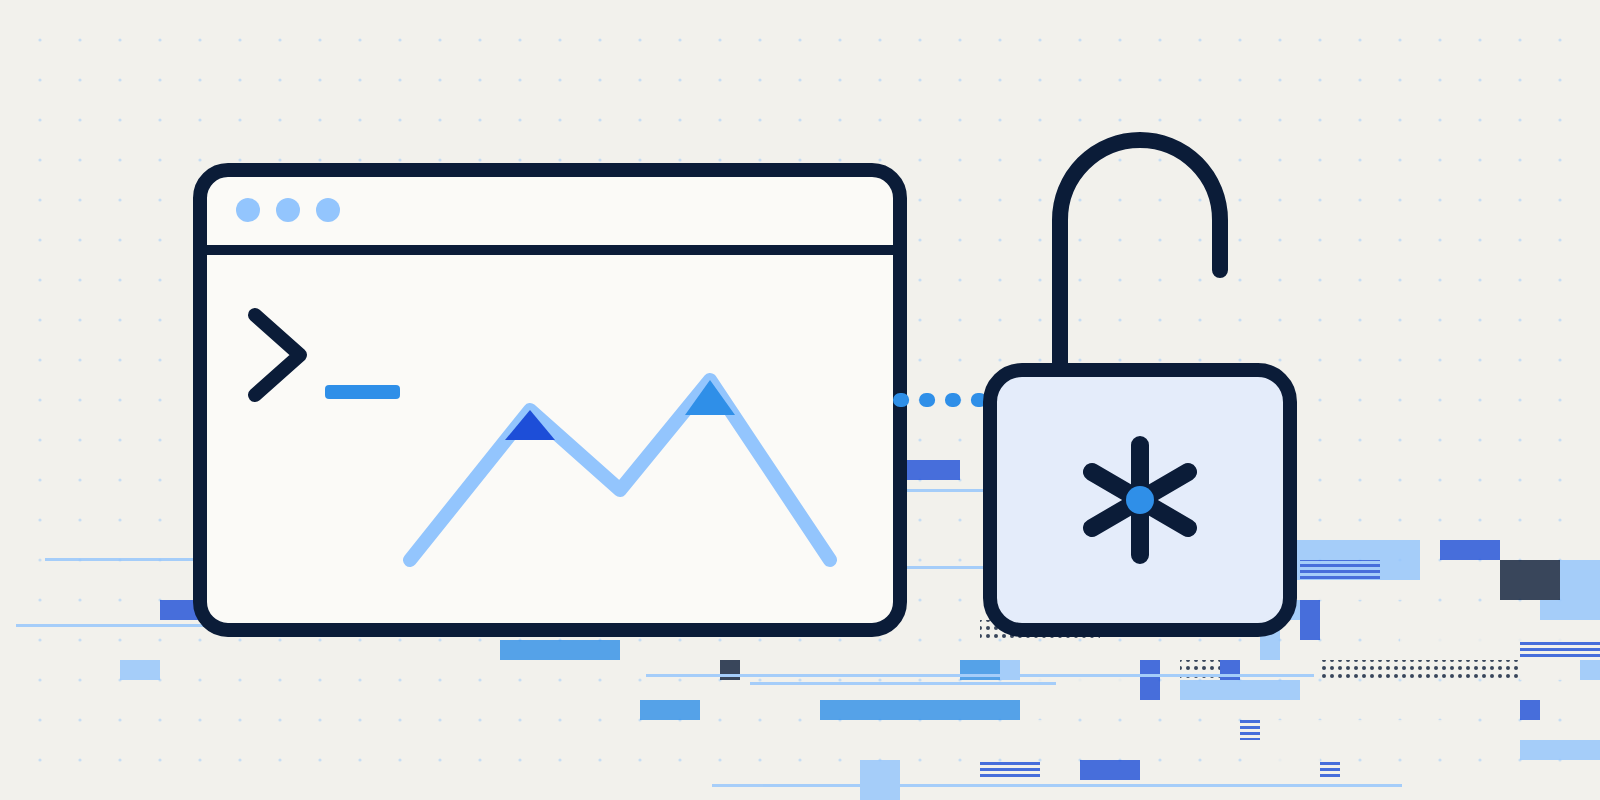
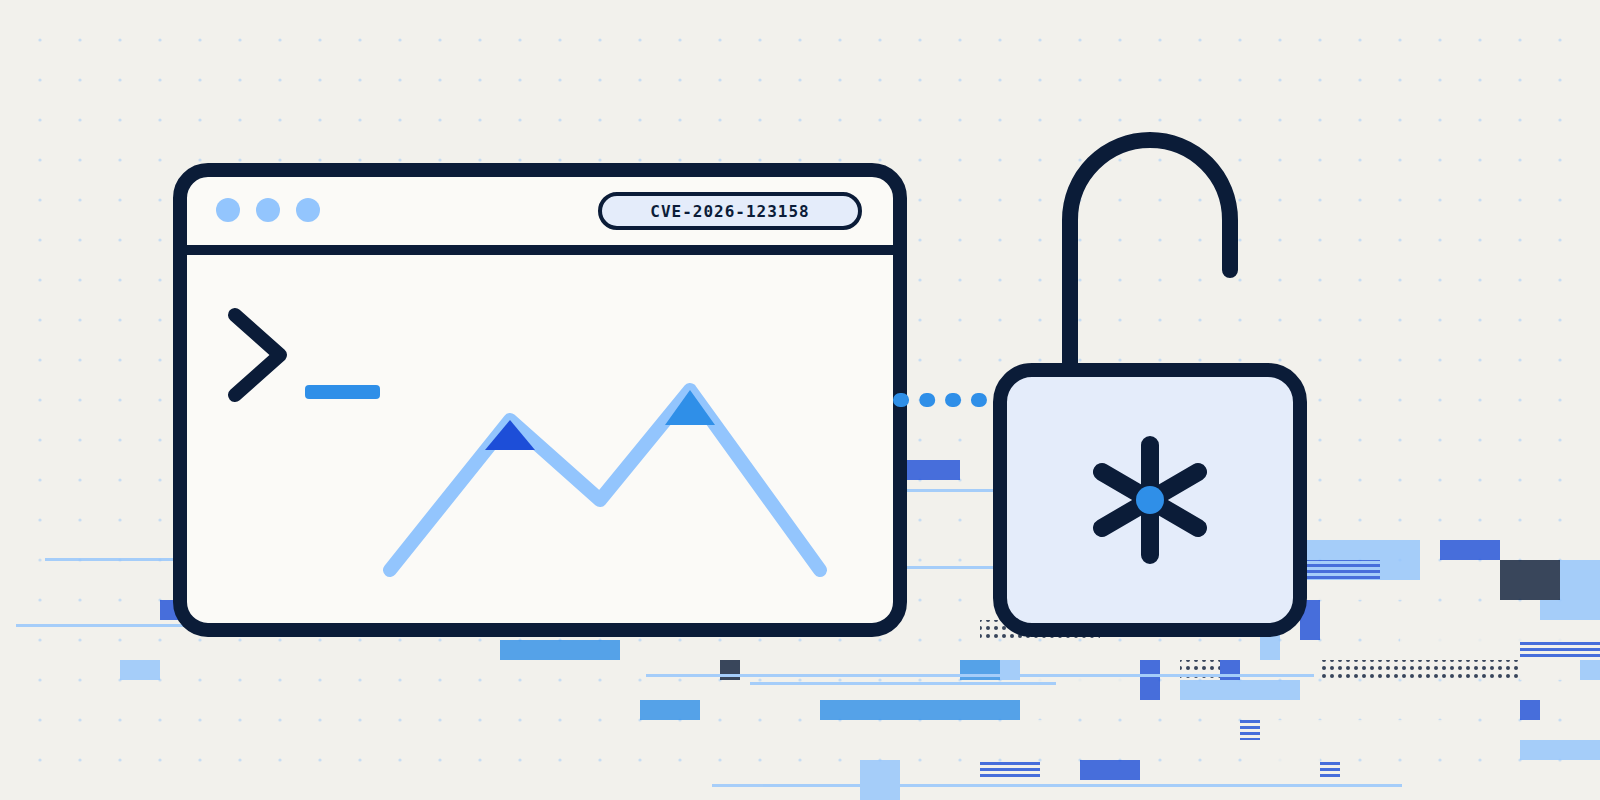
docs: include CVE-2026-123158 identifier across report, cover badge, and README

diff --git a/article.md b/article.md
@@ -1,13 +1,15 @@
 ---
-title: "The Asterisk Key: Breaking Alpine Linux OpenSSH via musl crypt Collision ('sshole')"
-summary: "How an empty password placeholder ('*'), a borrowed salt mechanism, and a 256-byte truncation quirk in musl libc aligned to grant arbitrary password authentication in Alpine Linux OpenSSH."
-tags: [Security, Research, Vulnerability, Linux, OpenSSH]
+title: "The Asterisk Key: Breaking Alpine Linux OpenSSH via musl crypt Collision (CVE-2026-123158 / 'sshole')"
+summary: "How an empty password placeholder ('*'), a borrowed salt mechanism, and a 256-byte truncation quirk in musl libc aligned to grant arbitrary password authentication in Alpine Linux OpenSSH (CVE-2026-123158)."
+tags: [Security, Research, Vulnerability, Linux, OpenSSH, CVE-2026-123158]
 ---
 
-# The Asterisk Key: Breaking Alpine Linux OpenSSH via musl crypt Collision ("sshole")
+# The Asterisk Key: Breaking Alpine Linux OpenSSH via musl crypt Collision (CVE-2026-123158 / "sshole")
 
 **Researcher:** Aldi ([akarkode](https://github.com/akarkode))  
 **Date of Research:** November 6, 2026  
+**Vulnerability Identifier:** [CVE-2026-123158](https://nvd.nist.gov/vuln/detail/CVE-2026-123158) ([CVE.org Record](https://www.cve.org/CVERecord?id=CVE-2026-123158))  
+**CVSS v3.1 Score:** **8.1 High** (`CVSS:3.1/AV:N/AC:H/PR:N/UI:N/S:U/C:H/I:H/A:H`, CWE-394)  
 **Reference Advisory:** [Alpine Linux Security Advisory (2026-11-05)](https://alpinelinux.org/posts/2026-11-05-openssh-password-authentication-bypass/)  
 **Fix Release:** [OpenSSH 10.6p2](https://www.openssh.com/txt/release-10.6p2) / Alpine `openssh-server-9.9_p2-r1`  
 **GitHub Repository:** [akarkode/alpine-openssh-sshole-auth-bypass](https://github.com/akarkode/alpine-openssh-sshole-auth-bypass)
@@ -20,9 +22,9 @@ tags: [Security, Research, Vulnerability, Linux, OpenSSH]
 
 In password security, we are taught that disabling a password field or setting it to a non-hash token renders password authentication impossible. For decades across UNIX systems, setting an account's password field in `/etc/shadow` to `*` or `!` has been the standard way to denote "no password login permitted."
 
-On November 5, 2026, Alpine Linux published a high-severity advisory disclosing an authentication bypass dubbed **"sshole"**. Under specific conditions on Alpine Linux (and other musl-based distributions running non-PAM OpenSSH), **any password between 257 and 1024 bytes long authenticates successfully against accounts whose shadow field is exactly `*`**.
+On November 5, 2026, Alpine Linux published a high-severity advisory disclosing an authentication bypass dubbed **"sshole"**, assigned identifier **CVE-2026-123158** (CVSS 3.1 8.1 High). Under specific conditions on Alpine Linux (and other musl-based distributions running non-PAM OpenSSH), **any password between 257 and 1024 bytes long authenticates successfully against accounts whose shadow field is exactly `*`**.
 
-In this report, I document my deep technical investigation, reproduction methodology, proof of concept, failed scenarios, and the precise libc/daemon interaction that caused this vulnerability.
+In this report, I document my deep technical investigation, reproduction methodology, proof of concept, failed scenarios, the subtle boundary difference between the CVE description and actual libc mechanics, and the precise libc/daemon interaction that caused this vulnerability.
 
 ---
 
@@ -30,7 +32,7 @@ In this report, I document my deep technical investigation, reproduction methodo
 
 When I first read the advisory announcement, it seemed almost counterintuitive: how could a non-hash placeholder string like `*` ever match the cryptographic digest of an incoming plaintext password? Cryptographic hash functions like SHA-512 crypt (`$6$`) produce 86-character digests preceded by algorithm identifiers and salt.
 
-However, software security is not just about abstract mathematics; it is about the physical implementation of specifications across libraries and daemons. In this case, three independent design decisions and optimizations spanning 14 years intersected:
+However, software security is not just about abstract mathematics; it is about the physical implementation of specifications across libraries and daemons. In this case, three independent design decisions and optimizations spanning 14 years intersected to create CVE-2026-123158:
 
 1. **A Denial-of-Service guard in musl libc (2012):** musl caps `$5$` (SHA-256) and `$6$` (SHA-512) inputs to `KEY_MAX = 256` bytes, returning the literal error indicator `"*"` when exceeded.
 2. **A user-enumeration defense in OpenSSH (CVE-2016-6210):** When authenticating an account with an invalid hash like `*`, OpenSSH borrows a valid salt from another existing account (`pick_salt()`) to ensure consistent CPU timing.
@@ -58,11 +60,18 @@ The vulnerability allows remote unauthenticated attackers to authenticate as any
 3. At least one user exists on the system with a valid `$5$` or `$6$` password hash to act as a "salt donor".
 4. The submitted password length is between **257 and 1024 bytes**.
 
+### CVE Record and Payload Length Clarification
+The published record for **CVE-2026-123158** notes an affected input range of **256–1024 characters**. However, during my empirical lab investigation, I observed a critical technical distinction:
+* In musl libc's source code, the condition is `key_len > KEY_MAX` (where `KEY_MAX` is 256).
+* An input of **exactly 256 bytes** is still processed and hashed normally by musl, producing an 86-character digest that fails to match `"*"`.
+* Only inputs of **257 bytes and above** trigger the early exit returning `"*"`.
+* Therefore, the exact workable exploit payload boundary is **257–1024 bytes**, capped at 1024 by OpenSSH's `MAX_PASSWORD_LEN`.
+
 ### Impact Summary
 
 | Vector | Requirement | Severity |
 | :--- | :--- | :--- |
-| **Authentication Bypass** | Network access to SSH port + reachability of an account with shadow field `*` | **Critical** (CVSS ~9.8 if root or privileged users reachable) |
+| **Authentication Bypass (CVE-2026-123158)** | Network access to SSH port + reachability of an account with shadow field `*` + presence of a `$5$/$6$` salt donor | **8.1 High** (CVSS:3.1/AV:N/AC:H/PR:N/UI:N/S:U/C:H/I:H/A:H) |
 | **Privilege Escalation** | Direct shell access as `root`, `alpine` (with sudo/doas), or service accounts | **High** |
 
 ---
@@ -104,14 +113,14 @@ When an attacker targets account `victim` (with shadow hash `"*"`):
 2. OpenSSH inspects victim's hash (`"*"`). It detects this is not a valid salt, so it calls `pick_salt()`.
 3. `pick_salt()` finds user `donor` with hash `$6$abcdefgh$...` and uses donor's salt `$6$abcdefgh$`.
 4. OpenSSH calls `xcrypt(P, "$6$abcdefgh$")`.
-5. musl libc evaluates `P`. Because `strlen(P) > 256`, musl halts and returns `"*"`.
+5. musl libc evaluates $P$. Because `strlen(P) > 256`, musl halts and returns `"*"`.
 6. OpenSSH compares the result:
    $$\text{strcmp}(\text{"*"}, \text{pw\_password}) \implies \text{strcmp}(\text{"*"}, \text{"*"}) == 0$$
 7. OpenSSH believes the password is correct and grants an authenticated shell session.
 
 ```
 +-------------------------------------------------------------------------+
-|                        The Collision Equation                           |
+|                  The CVE-2026-123158 Collision Equation                 |
 |                                                                         |
 | Password (257-1024 B) + Borrowed Salt ($6$)                             |
 |          |                                                              |
@@ -167,7 +176,7 @@ The test systematically stepped through boundary conditions:
 During the interactive reproduction, I initiated an SSH connection to `victim@127.0.0.1:2222`:
 
 ![Terminal Authentication Bypass Evidence](assets/Screenshot_2026-11-06_09-36-25.png)
-*Figure 1: Manual interactive verification showing connection to `victim@127.0.0.1`, the initial rejection due to static buffer clobbering, the second identical password entry (`A*300x`), and the resulting shell session confirming `uid=1001(victim)`.*
+*Figure 1: Manual interactive verification of CVE-2026-123158 showing connection to `victim@127.0.0.1`, the initial rejection due to static buffer clobbering, the second identical password entry (`A*300x`), and the resulting shell session confirming `uid=1001(victim)`.*
 
 In Figure 1, the terminal shows the exact sequence:
 1. `victim@127.0.0.1's password:` $\rightarrow$ input: `A*300x` (redacted 300-byte string).
@@ -310,7 +319,7 @@ DISPLAY=:0 ssh $SSH_OPTS -p "$PORT" "$VICTIM@$HOST" 'id; hostname'
 
 ## 10. Technical Analysis: The Fix
 
-In **OpenSSH 10.6p2** and the Alpine backport patch (`openssh-server-9.9_p2-r1`), two fundamental remediations were implemented:
+In **OpenSSH 10.6p2** and the Alpine backport patch (`openssh-server-9.9_p2-r1`), two fundamental remediations were implemented (Git commit `4353fdc43ef646c43a8dda7025cc1a898caf1482`):
 
 1. **Enforcing Minimum Password Hash Length (`MIN_PASSWORD_HASH_LEN`):**
    OpenSSH introduced an explicit check in `sys_auth_passwd()`:
@@ -376,7 +385,7 @@ sequenceDiagram
 
 ## 12. Impact Assessment
 
-The severity of this issue depends heavily on deployment specifics:
+The severity of **CVE-2026-123158** (CVSS 8.1 High: `AV:N/AC:H/PR:N/UI:N/S:U/C:H/I:H/A:H`) reflects the specific environmental pre-conditions required:
 
 1. **Default Alpine Linux Installations:**
    * In Alpine $\ge$ 3.16, `root` has `*` in `/etc/shadow`. However, the default `sshd_config` sets:
@@ -433,8 +442,11 @@ Cross-reference accepted logins with accounts that should never possess valid pa
 
 ## 14. References
 
+* **NVD CVE Record:** [CVE-2026-123158 Detail](https://nvd.nist.gov/vuln/detail/CVE-2026-123158)
+* **CVE.org Official Record:** [CVE-2026-123158](https://www.cve.org/CVERecord?id=CVE-2026-123158)
 * **Alpine Linux Advisory:** [OpenSSH Password Authentication Bypass (2026-11-05)](https://alpinelinux.org/posts/2026-11-05-openssh-password-authentication-bypass/)
 * **OpenSSH Official Announcement:** [OpenSSH 10.6p2 Release Notes](https://www.openssh.com/txt/release-10.6p2)
+* **OpenSSH Fix Commit:** [Git Commit 4353fdc](https://github.com/openssh/openssh-portable/commit/4353fdc43ef646c43a8dda7025cc1a898caf1482)
 * **CVE-2016-6210 Analysis:** [OpenSSH User Enumeration via Timing Differences](https://nvd.nist.gov/vuln/detail/CVE-2016-6210)
 * **musl libc Git Repository:** [`crypt_sha512.c` KEY_MAX boundary source](https://git.musl-libc.org/cgit/musl/tree/src/crypt/crypt_sha512.c)
 * **Community Research & PoC:** [schappim/sshole-audit](https://github.com/schappim/sshole-audit)

diff --git a/README.md b/README.md
@@ -1,16 +1,20 @@
-# Alpine Linux OpenSSH Password Authentication Bypass ("sshole") Lab & Research
+# Alpine Linux OpenSSH Password Authentication Bypass (CVE-2026-123158 / "sshole") Lab & Research
 
 ![Cover](cover.png)
 
-This repository contains the full vulnerability research report, laboratory reproduction scripts, and proof-of-concept environment for the Alpine Linux OpenSSH authentication bypass vulnerability ("sshole") disclosed on November 5, 2026.
+This repository contains the full vulnerability research report, laboratory reproduction scripts, and proof-of-concept environment for the Alpine Linux OpenSSH authentication bypass vulnerability (**CVE-2026-123158**, CVSS 3.1 8.1 High, dubbed "sshole") disclosed on November 5, 2026.
 
 ## Research Summary
 
+* **Vulnerability Identifier:** [CVE-2026-123158](https://nvd.nist.gov/vuln/detail/CVE-2026-123158) ([CVE.org Record](https://www.cve.org/CVERecord?id=CVE-2026-123158))
+* **CVSS v3.1 Score:** **8.1 High** (`CVSS:3.1/AV:N/AC:H/PR:N/UI:N/S:U/C:H/I:H/A:H`, CWE-394)
 * **Discovered Issue:** Arbitrary password authentication bypass for accounts whose `/etc/shadow` password field is exactly `*`.
 * **Affected Platform:** Alpine Linux (all versions with default non-PAM OpenSSH $\le$ 9.9p2).
 * **Vulnerable Component:** `openssh-server-9.9_p2-r0` running on musl libc without PAM.
 * **Remediation:** Fixed in Alpine `openssh-server-9.9_p2-r1` and upstream `OpenSSH 10.6p2`.
 * **Exploitation Vector:** Any password of length 257 to 1024 bytes (e.g. `A*300x`).
+
+> **Note on Input Boundary:** While the CVE description cites 256–1024 characters, empirical testing in this lab demonstrates that musl libc hashes 256-byte inputs normally (`key_len > KEY_MAX`); only inputs of **257 to 1024 bytes** return `"*"` to trigger the authentication bypass.
 
 ## Vulnerability Mechanism
 
@@ -25,7 +29,7 @@ The flaw results from the intersection of three components:
 alpine-openssh-sshole-auth-bypass/
 ├── article.md            # Comprehensive security research report
 ├── README.md             # Project overview & quick reproduction guide
-├── cover.png             # Cover illustration (PNG)
+├── cover.png             # Cover illustration with CVE badge (PNG)
 ├── cover.svg             # Vector source for cover
 ├── Dockerfile.server     # Alpine 3.21 + vulnerable openssh-server
 ├── Dockerfile.client     # Exploit testing client container
@@ -100,6 +104,14 @@ ssh -p 2222 victim@127.0.0.1
    ```bash
    passwd -l <user>
    ```
+
+## References
+
+- NVD Record: <https://nvd.nist.gov/vuln/detail/CVE-2026-123158>
+- CVE.org Record: <https://www.cve.org/CVERecord?id=CVE-2026-123158>
+- Alpine Advisory: <https://alpinelinux.org/posts/2026-11-05-openssh-password-authentication-bypass/>
+- OpenSSH Release: <https://www.openssh.com/txt/release-10.6p2>
+- Fix Commit: <https://github.com/openssh/openssh-portable/commit/4353fdc43ef646c43a8dda7025cc1a898caf1482>
 
 ## Disclaimer
 
